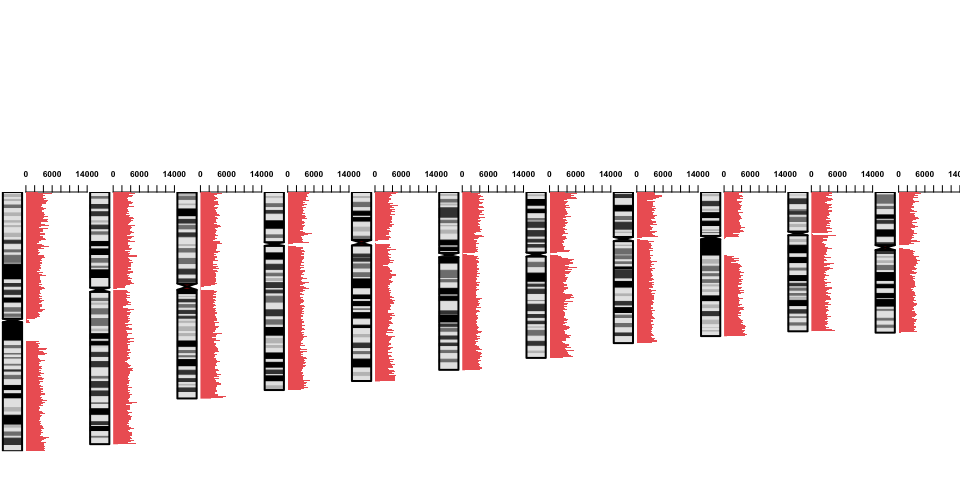
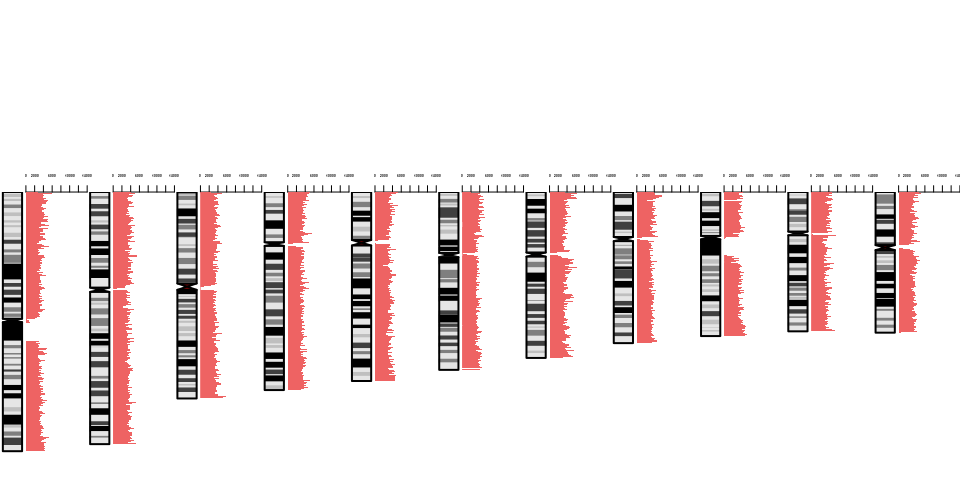
chrom with two lines

Changed region(s): [[0.0312, 0.3438, 1.0, 0.375]]

diff --git a/reports/chromosomeView.md b/reports/chromosomeView.md
@@ -19,21 +19,20 @@ winsor <- function(x, u = 10) {
 }
 ```
 
-We load the coordinate columnd and the MH columns that we want to use
-for filtering (e.g. mhL and mh1L).
+We load the coordinate columnd and the MH columns that we want to use for filtering (e.g. mhL and mh1L).
 
 ``` r
 ## read.table('../data/mhcut-dbsnp-clinvar-deletion-variants.tsv.gz',
 ## nrows=1)
 var = fread("gunzip -c ../data/mhcut-dbsnp-clinvar-deletion-variants.tsv.gz", 
-    select = c(1:3, 21:22))
+    select = c(1:3, 21:22, 29))
 setkey(var, chr)
 ```
 
 Variant density
 ---------------
 
-For example, density of variants with `mh1L>2` in region of 1 Mbp.
+For example, density of variants with `mh1L>2` in region of 1 Mbp. And also the density of variants with `mh1L>2` and `pamUniq>0`.
 
 ``` r
 ## source('https://bioconductor.org/biocLite.R')
@@ -42,7 +41,7 @@ library(BSgenome.Hsapiens.UCSC.hg38)
 library(GenomicRanges)
 ```
 
-First let’s prepare 1 Mbp regions in the human genome.
+First let's prepare 1 Mbp regions in the human genome.
 
 ``` r
 bin.gr = tileGenome(seqlengths(BSgenome.Hsapiens.UCSC.hg38), tilewidth = 1000000)
@@ -52,12 +51,16 @@ bin.gr = do.call(c, bin.gr)
 Now count how many variants overlap each 1 Mbp region.
 
 ``` r
+## We want one column for mh1L>2 and a sceond one for mh1L>2 AND pamUniq>0
 var.filt = var[mh1L > 2, ]
+var.filt2 = var[mh1L > 2 & pamUniq > 0, ]
 ## Separately per chromosome to reduce the memory footprint
 gr.l = lapply(paste0("chr", c(1:22, "X", "Y")), function(chrom) {
     var.gr = makeGRangesFromDataFrame(var.filt[chrom, ])
+    var2.gr = makeGRangesFromDataFrame(var.filt2[chrom, ])
     bin.chr = bin.gr[which(seqnames(bin.gr) == chrom)]
     bin.chr$nb.var = countOverlaps(bin.chr, var.gr)
+    bin.chr$nb.var2 = countOverlaps(bin.chr, var2.gr)
     bin.chr
 })
 
@@ -66,22 +69,24 @@ gr = do.call(c, gr.l)
 head(gr)
 ```
 
-    ## GRanges object with 6 ranges and 1 metadata column:
-    ##       seqnames             ranges strand |    nb.var
-    ##          <Rle>          <IRanges>  <Rle> | <integer>
-    ##   [1]     chr1 [      1,  999778]      * |      2741
-    ##   [2]     chr1 [ 999779, 1999556]      * |      5969
-    ##   [3]     chr1 [1999557, 2999333]      * |      3956
-    ##   [4]     chr1 [2999334, 3999111]      * |      4252
-    ##   [5]     chr1 [3999112, 4998889]      * |      3916
-    ##   [6]     chr1 [4998890, 5998666]      * |      4010
+    ## GRanges object with 6 ranges and 2 metadata columns:
+    ##       seqnames             ranges strand |    nb.var   nb.var2
+    ##          <Rle>          <IRanges>  <Rle> | <integer> <integer>
+    ##   [1]     chr1 [      1,  999778]      * |      2741       311
+    ##   [2]     chr1 [ 999779, 1999556]      * |      5969      1093
+    ##   [3]     chr1 [1999557, 2999333]      * |      3956       706
+    ##   [4]     chr1 [2999334, 3999111]      * |      4252       942
+    ##   [5]     chr1 [3999112, 4998889]      * |      3916       327
+    ##   [6]     chr1 [4998890, 5998666]      * |      4010       379
     ##   -------
     ##   seqinfo: 455 sequences from an unspecified genome
 
-On average 3479 variants per Mbp.
+On average 3479 variants per Mbp for variants with `mh1L>2`, and 3479 variants per Mbp for variants with `mh1L>2` and `pamUniq>0`.
 
 IdeoViz package
 ---------------
+
+Histogram version using only the column for `mh1L>2` variants.
 
 ``` r
 ## source("https://bioconductor.org/biocLite.R")
@@ -100,7 +105,7 @@ plotOnIdeo(chrom = paste0('chr', 1:11),
            ## plotType='lines',
            plotType='rect',
            ## plot_title = paste("Differrence between", gsub(".coverage","",fileA), gsub(".coverage","",fileB), "bin",windows_size),
-           cex.axis = 0.8,
+           cex.axis = 0.3,
            chromName_cex = .6,
            vertical = T)
 ```
@@ -173,8 +178,132 @@ plotOnIdeo(chrom = paste0('chr', c(12:22, 'X', 'Y')),
 
 ![](chromosomeView_files/figure-markdown_github/unnamed-chunk-6-2.png)
 
+To save in PDF:
+
+``` r
+## Let's say we want to put the PDF in a 'figures' folder
+pdf('../figures/chromosomeView-IdeoViz.pdf', 9, 7)
+plotOnIdeo(chrom = paste0('chr', 1:11),
+           ideoTable = ideo,
+           values_GR = gr,
+           value_cols = colnames(mcols(gr)),
+           col = 'indianred2',
+           addScale = F,
+           val_range=c(0, max(gr$nb.var)),
+           ## plotType='lines',
+           plotType='rect',
+           ## plot_title = paste("Differrence between", gsub(".coverage","",fileA), gsub(".coverage","",fileB), "bin",windows_size),
+           cex.axis = 0.3,
+           chromName_cex = .6,
+           vertical = T)
+plotOnIdeo(chrom = paste0('chr', c(12:22, 'X', 'Y')),
+           ideoTable = ideo,
+           values_GR = gr,
+           value_cols = colnames(mcols(gr)),
+           col = 'indianred2',
+           addScale = F,
+           val_range=c(0, max(gr$nb.var)),
+           ## plotType='lines',
+           plotType='rect',
+           ## plot_title = paste("Differrence between", gsub(".coverage","",fileA), gsub(".coverage","",fileB), "bin",windows_size),
+           cex.axis = 0.8,
+           chromName_cex = 0.6,
+           vertical = T)
+dev.off()
+```
+
+Line version using both columns.
+
+``` r
+plotOnIdeo(chrom = paste0('chr', 1:11),
+           ideoTable = ideo,
+           values_GR = gr,
+           value_cols = colnames(mcols(gr)),
+           col = c('steelblue', 'indianred2'),
+           addScale = F,
+           val_range=c(0, max(gr$nb.var)),
+           plotType='lines',
+           ## plotType='rect',
+           ## plot_title = paste("Differrence between", gsub(".coverage","",fileA), gsub(".coverage","",fileB), "bin",windows_size),
+           cex.axis = 0.3,
+           chromName_cex = .6,
+           vertical = T)
+```
+
+    ## Plot chromosome done
+
+    ## Plot chromosome done
+
+    ## Plot chromosome done
+
+    ## Plot chromosome done
+
+    ## Plot chromosome done
+
+    ## Plot chromosome done
+
+    ## Plot chromosome done
+
+    ## Plot chromosome done
+
+    ## Plot chromosome done
+
+    ## Plot chromosome done
+
+    ## Plot chromosome done
+
+![](chromosomeView_files/figure-markdown_github/unnamed-chunk-8-1.png)
+
+``` r
+plotOnIdeo(chrom = paste0('chr', c(12:22, 'X', 'Y')),
+           ideoTable = ideo,
+           values_GR = gr,
+           value_cols = colnames(mcols(gr)),
+           col = c('steelblue', 'indianred2'),
+           addScale = F,
+           val_range=c(0, max(gr$nb.var)),
+           plotType='lines',
+           ## plotType='rect',
+           ## plot_title = paste("Differrence between", gsub(".coverage","",fileA), gsub(".coverage","",fileB), "bin",windows_size),
+           cex.axis = 0.8,
+           chromName_cex = 0.6,
+           vertical = T)
+```
+
+    ## Plot chromosome done
+
+    ## Plot chromosome done
+
+    ## Plot chromosome done
+
+    ## Plot chromosome done
+
+    ## Plot chromosome done
+
+    ## Plot chromosome done
+
+    ## Plot chromosome done
+
+    ## Plot chromosome done
+
+    ## Plot chromosome done
+
+    ## Plot chromosome done
+
+    ## Plot chromosome done
+
+    ## Plot chromosome done
+
+    ## Plot chromosome done
+
+![](chromosomeView_files/figure-markdown_github/unnamed-chunk-8-2.png)
+
+There are so many more variants without unique PAMs that we don't really see the second line's variation...
+
 chromPlot package
 -----------------
+
+Only the first column:
 
 ``` r
 ## source('https://bioconductor.org/biocLite.R') biocLite('chromPlot')
@@ -251,7 +380,7 @@ chromPlot(gaps = gap, bands = cyto, stat = gr, statCol = "nb.var", statName = "v
 
     ## Chrom Y : 57227415 bp
 
-![](chromosomeView_files/figure-markdown_github/unnamed-chunk-7-1.png)
+![](chromosomeView_files/figure-markdown_github/unnamed-chunk-9-1.png)
 
 ``` r
 ## Line graph
@@ -307,4 +436,64 @@ chromPlot(gaps = gap, bands = cyto, stat = gr, statCol = "nb.var", statTyp = "l"
 
     ## Chrom Y : 57227415 bp
 
-![](chromosomeView_files/figure-markdown_github/unnamed-chunk-7-2.png)
+![](chromosomeView_files/figure-markdown_github/unnamed-chunk-9-2.png)
+
+Or both column (one on each side):
+
+``` r
+## Line graph
+chromPlot(gaps = gap, bands = cyto, stat = gr, statCol = "nb.var", stat2 = gr, 
+    statCol2 = "nb.var2", statTyp = "l", statName = "variants")
+```
+
+    ## Chrom 1 : 248956422 bp
+
+    ## Chrom 2 : 242193529 bp
+
+    ## Chrom 3 : 198295559 bp
+
+    ## Chrom 4 : 190214555 bp
+
+    ## Chrom 5 : 181538259 bp
+
+    ## Chrom 6 : 170805979 bp
+
+    ## Chrom 7 : 159345973 bp
+
+    ## Chrom 8 : 145138636 bp
+
+    ## Chrom 9 : 138394717 bp
+
+    ## Chrom 10 : 133797422 bp
+
+    ## Chrom 11 : 135086622 bp
+
+    ## Chrom 12 : 133275309 bp
+
+    ## Chrom 13 : 114364328 bp
+
+    ## Chrom 14 : 107043718 bp
+
+    ## Chrom 15 : 101991189 bp
+
+    ## Chrom 16 : 90338345 bp
+
+    ## Chrom 17 : 83257441 bp
+
+    ## Chrom 18 : 80373285 bp
+
+    ## Chrom 19 : 58617616 bp
+
+    ## Chrom 20 : 64444167 bp
+
+    ## Chrom 21 : 46709983 bp
+
+    ## Chrom 22 : 50818468 bp
+
+    ## Chrom X : 156040895 bp
+
+    ## Chrom Y : 57227415 bp
+
+![](chromosomeView_files/figure-markdown_github/unnamed-chunk-10-1.png)
+
+Better than with the other package but I still don't like the way the scale is shown.
